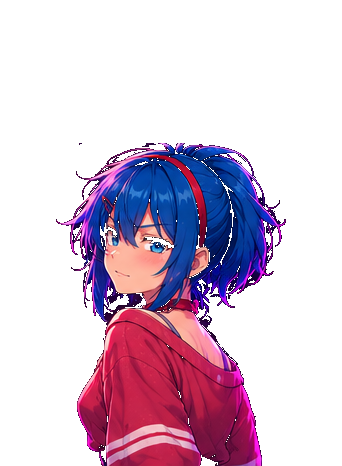
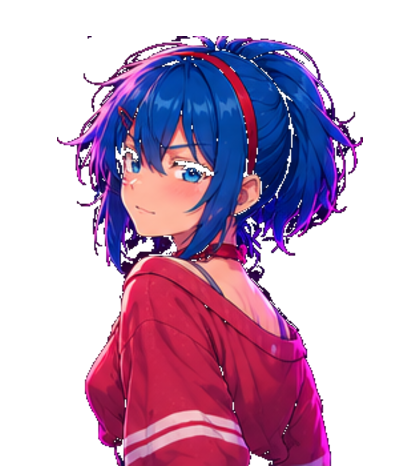
Enlarge Mika sprite artwork in scene

diff --git a/public/upskill.html b/public/upskill.html
@@ -1936,7 +1936,7 @@ function applyMikaArt(){
 .choice.primary{background:linear-gradient(110deg,#fa4bd5,#a85cff);color:#21091f!important;-webkit-text-fill-color:#21091f;border-color:#f780eb}
 .dialog{background:rgba(9,11,31,.99)}
 .ask input{background:rgba(9,11,31,.99)!important;color:#f5f0ff!important;-webkit-text-fill-color:#f5f0ff}
-.char{bottom:calc(var(--ui-h,180px) + 12px)!important;width:min(340px,64vw,max(100px,calc((var(--stage-h,640px) - var(--ui-h,180px) - 36px)/1.375)))!important;min-width:0!important}
+.char{bottom:calc(var(--ui-h,180px) + 12px)!important;width:min(370px,70vw,max(100px,calc((var(--stage-h,640px) - var(--ui-h,180px) - 24px)/1.375)))!important;min-width:0!important}
 .char .mika{-webkit-mask-image:linear-gradient(180deg,#000 0%,#000 89%,rgba(0,0,0,.76) 94%,transparent 100%);mask-image:linear-gradient(180deg,#000 0%,#000 89%,rgba(0,0,0,.76) 94%,transparent 100%)}
 @media(prefers-reduced-motion:reduce){.home-hero,.stage{scroll-behavior:auto}}
 </style>
